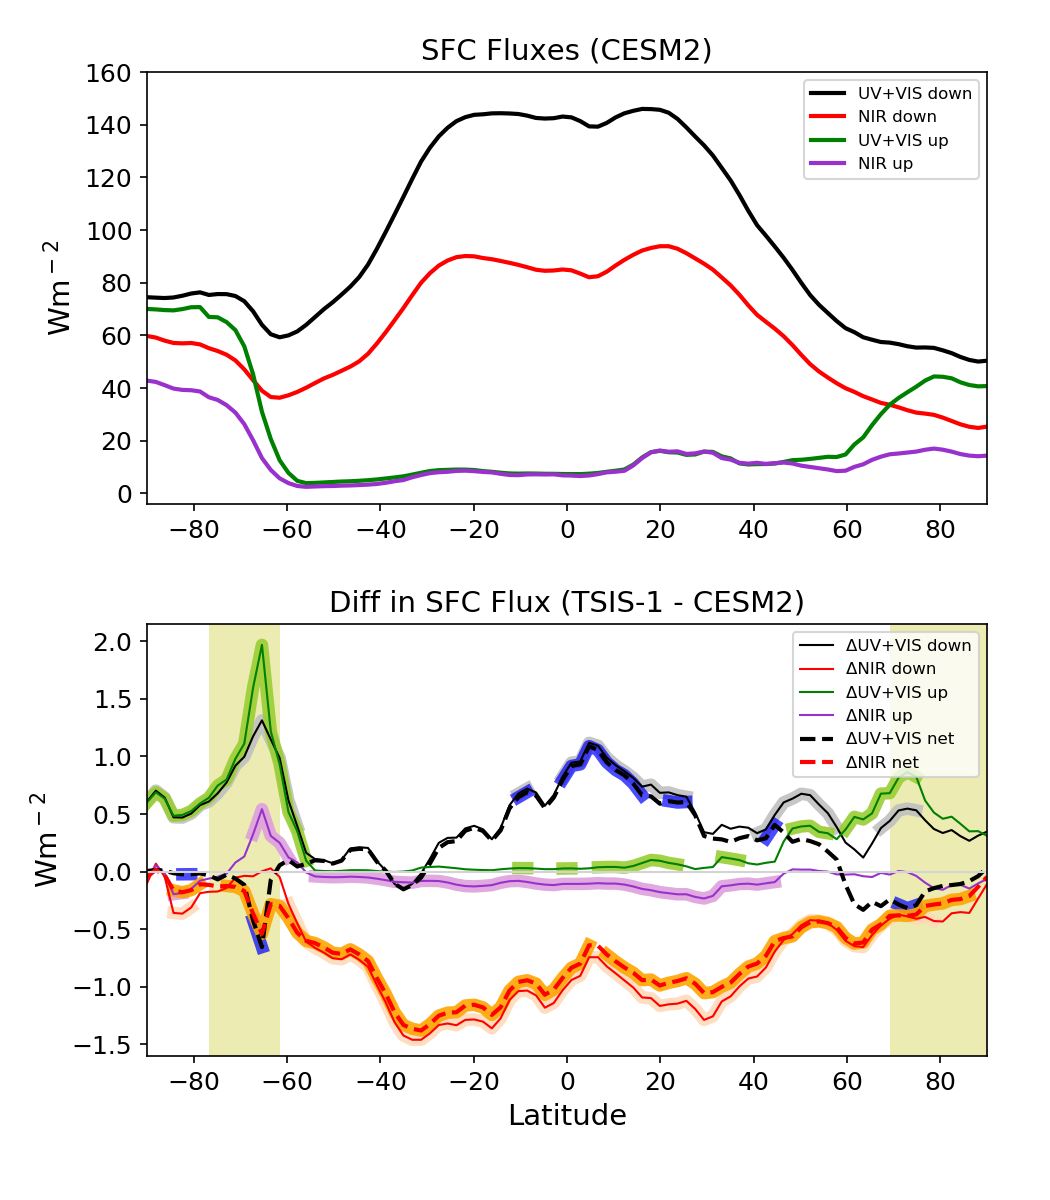
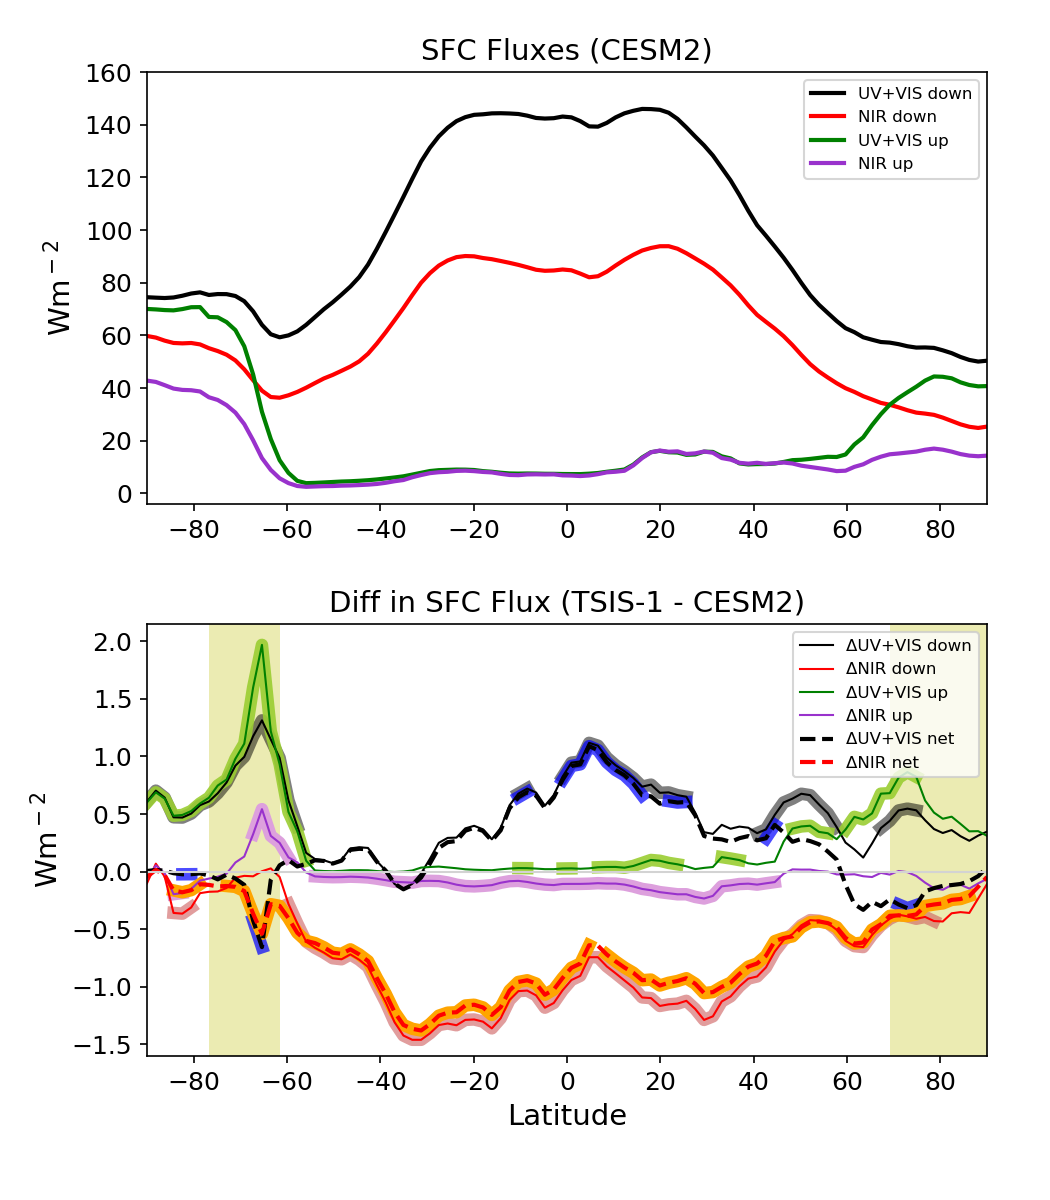
modify zonal mean plots

diff --git a/d4_zonal_mean_net_sfc.py b/d4_zonal_mean_net_sfc.py
@@ -34,15 +34,20 @@ ctl_name="CTL" #os.environ["ctl_name"]
 exp_name="TSIS" #os.environ["exp_name"]
 ctl_pref="solar_CTL_cesm211_ETEST-f19_g17-ens_mean_2010-2019"
 exp_pref="solar_TSIS_cesm211_ETEST-f19_g17-ens_mean_2010-2019"
+ctl_pref_diag="solar_CTL_cesm211_ETEST-f19_g17-ens0_5days"
+exp_pref_diag="solar_TSIS_cesm211_ETEST-f19_g17-ens0_5days"
 
 fpath_ctl="/raid00/xianwen/cesm211_solar/"+ctl_pref+"/climo/"
 fpath_exp="/raid00/xianwen/cesm211_solar/"+exp_pref+"/climo/"
  
+fpath_ctl_diag="/raid00/xianwen/cesm211_solar/"+ctl_pref_diag+"/"
+fpath_exp_diag="/raid00/xianwen/cesm211_solar/"+exp_pref_diag+"/"
+
 years=np.arange(2010,2020) 
 months_all=["01","02","03","04","05","06","07","08","09","10","11","12"]
 
 #var_long_name="Surface Net SW Radiation (all-sky)"
-figure_name="zonal_sfc_net_uv+vis_nir_ANN_shaded"
+figure_name="zonal_sfc_net_ANN_shaded"
 units=r"Wm$^-$$^2$"
 
 varnms_vis_dn=np.array(["FSSDS13","FSSDS12","FSSDS11","FSSDS10","FSSDS09"])
@@ -80,6 +85,30 @@ diffs_net=np.zeros((2,nlat)) #multi-year exp-ctl diff for each variable
 gm_yby_ctl_net=np.zeros((2,years.size)) #year by year mean for each variable
 gm_yby_exp_net=np.zeros((2,years.size)) #year by year mean for each variable
 
+means_yby_ctl_dn_diag=np.zeros((years.size,2,nlat)) #year by year mean for each variable
+means_yby_exp_dn_diag=np.zeros((years.size,2,nlat)) #year by year mean for each variable
+means_ctl_dn_diag=np.zeros((2,nlat)) #multi-year mean for each variable
+means_exp_dn_diag=np.zeros((2,nlat)) #multi-year mean for each variable
+diffs_dn_dn_diag=np.zeros((2,nlat)) #multi-year exp-ctl diff for each variable
+gm_yby_ctl_dn_diag=np.zeros((2,years.size)) #year by year mean for each variable
+gm_yby_exp_dn_diag=np.zeros((2,years.size)) #year by year mean for each variable
+
+means_yby_ctl_up_diag=np.zeros((years.size,2,nlat)) #year by year mean for each variable
+means_yby_exp_up_diag=np.zeros((years.size,2,nlat)) #year by year mean for each variable
+means_ctl_up_diag=np.zeros((2,nlat)) #multi-year mean for each variable
+means_exp_up_diag=np.zeros((2,nlat)) #multi-year mean for each variable
+diffs_up_diag=np.zeros((2,nlat)) #multi-year exp-ctl diff for each variable
+gm_yby_ctl_up_diag=np.zeros((2,years.size)) #year by year mean for each variable
+gm_yby_exp_up_diag=np.zeros((2,years.size)) #year by year mean for each variable
+
+means_yby_ctl_net_diag=np.zeros((years.size,2,nlat)) #year by year mean for each variable
+means_yby_exp_net_diag=np.zeros((years.size,2,nlat)) #year by year mean for each variable
+means_ctl_net_diag=np.zeros((2,nlat)) #multi-year mean for each variable
+means_exp_net_diag=np.zeros((2,nlat)) #multi-year mean for each variable
+diffs_net_diag=np.zeros((2,nlat)) #multi-year exp-ctl diff for each variable
+gm_yby_ctl_net_diag=np.zeros((2,years.size)) #year by year mean for each variable
+gm_yby_exp_net_diag=np.zeros((2,years.size)) #year by year mean for each variable
+
 means_yby_exp_fice=np.zeros((years.size,nlat)) #year by year mean for each variable
 means_exp_fice=np.zeros((nlat)) #multi-year mean for each variable
 
@@ -89,7 +118,12 @@ for iy in range(0,years.size):
     fexp=fpath_exp+exp_pref+"_ANN_"+str(years[iy])+".nc"
     file_ctl=netcdf_dataset(fctl,"r")
     file_exp=netcdf_dataset(fexp,"r")
-    
+
+    fctl_diag=fpath_ctl_diag+ctl_pref_diag+"_climo_ANN.nc"
+    fexp_diag=fpath_exp_diag+exp_pref_diag+"_climo_ANN.nc"
+    file_ctl_diag=netcdf_dataset(fctl_diag,"r")
+    file_exp_diag=netcdf_dataset(fexp_diag,"r")
+
     # read lat and lon
     lat=file_ctl.variables["lat"]
     lon=file_ctl.variables["lon"]
@@ -105,6 +139,13 @@ for iy in range(0,years.size):
         gm_yby_ctl_dn[0,iy]=gm_yby_ctl_dn[0,iy]+get_area_mean_min_max(dtctl_dn[:,:],lat[:])[0]
         gm_yby_exp_dn[0,iy]=gm_yby_exp_dn[0,iy]+get_area_mean_min_max(dtexp_dn[:,:],lat[:])[0]
 
+        dtctl_dn_diag=file_ctl_diag.variables[vn][0,:,:]
+        dtexp_dn_diag=file_exp_diag.variables[vn][0,:,:] 
+        means_yby_ctl_dn_diag[iy,0,:]= means_yby_ctl_dn_diag[iy,0,:] + np.mean(dtctl_dn_diag[:,:],axis=1)
+        means_yby_exp_dn_diag[iy,0,:]= means_yby_exp_dn_diag[iy,0,:] + np.mean(dtexp_dn_diag[:,:],axis=1)
+        gm_yby_ctl_dn_diag[0,iy]=gm_yby_ctl_dn_diag[0,iy]+get_area_mean_min_max(dtctl_dn_diag[:,:],lat[:])[0]
+        gm_yby_exp_dn_diag[0,iy]=gm_yby_exp_dn_diag[0,iy]+get_area_mean_min_max(dtexp_dn_diag[:,:],lat[:])[0]
+
     for vn in varnms_nir_dn:
         dtctl_dn=file_ctl.variables[vn][0,:,:]
         dtexp_dn=file_exp.variables[vn][0,:,:] 
@@ -113,6 +154,13 @@ for iy in range(0,years.size):
         gm_yby_ctl_dn[1,iy]=gm_yby_ctl_dn[1,iy]+get_area_mean_min_max(dtctl_dn[:,:],lat[:])[0]
         gm_yby_exp_dn[1,iy]=gm_yby_exp_dn[1,iy]+get_area_mean_min_max(dtexp_dn[:,:],lat[:])[0]
  
+        dtctl_dn_diag=file_ctl_diag.variables[vn][0,:,:]
+        dtexp_dn_diag=file_exp_diag.variables[vn][0,:,:] 
+        means_yby_ctl_dn_diag[iy,1,:]= means_yby_ctl_dn_diag[iy,1,:] + np.mean(dtctl_dn_diag[:,:],axis=1)
+        means_yby_exp_dn_diag[iy,1,:]= means_yby_exp_dn_diag[iy,1,:] + np.mean(dtexp_dn_diag[:,:],axis=1)
+        gm_yby_ctl_dn_diag[1,iy]=gm_yby_ctl_dn_diag[1,iy]+get_area_mean_min_max(dtctl_dn_diag[:,:],lat[:])[0]
+        gm_yby_exp_dn_diag[1,iy]=gm_yby_exp_dn_diag[1,iy]+get_area_mean_min_max(dtexp_dn_diag[:,:],lat[:])[0]
+
     for vn in varnms_vis_up:
         dtctl_up=file_ctl.variables[vn][0,:,:]
         dtexp_up=file_exp.variables[vn][0,:,:] 
@@ -121,6 +169,13 @@ for iy in range(0,years.size):
         gm_yby_ctl_up[0,iy]=gm_yby_ctl_up[0,iy]+get_area_mean_min_max(dtctl_up[:,:],lat[:])[0]
         gm_yby_exp_up[0,iy]=gm_yby_exp_up[0,iy]+get_area_mean_min_max(dtexp_up[:,:],lat[:])[0]
 
+        dtctl_up_diag=file_ctl_diag.variables[vn][0,:,:]
+        dtexp_up_diag=file_exp_diag.variables[vn][0,:,:] 
+        means_yby_ctl_up_diag[iy,0,:]= means_yby_ctl_up_diag[iy,0,:] + np.mean(dtctl_up_diag[:,:],axis=1)
+        means_yby_exp_up_diag[iy,0,:]= means_yby_exp_up_diag[iy,0,:] + np.mean(dtexp_up_diag[:,:],axis=1)
+        gm_yby_ctl_up_diag[0,iy]=gm_yby_ctl_up_diag[0,iy]+get_area_mean_min_max(dtctl_up_diag[:,:],lat[:])[0]
+        gm_yby_exp_up_diag[0,iy]=gm_yby_exp_up_diag[0,iy]+get_area_mean_min_max(dtexp_up_diag[:,:],lat[:])[0]
+
     for vn in varnms_nir_up:
         dtctl_up=file_ctl.variables[vn][0,:,:]
         dtexp_up=file_exp.variables[vn][0,:,:] 
@@ -128,10 +183,23 @@ for iy in range(0,years.size):
         means_yby_exp_up[iy,1,:]= means_yby_exp_up[iy,1,:] + np.mean(dtexp_up[:,:],axis=1) #[0,:]
         gm_yby_ctl_up[1,iy]=gm_yby_ctl_up[1,iy]+get_area_mean_min_max(dtctl_up[:,:],lat[:])[0]
         gm_yby_exp_up[1,iy]=gm_yby_exp_up[1,iy]+get_area_mean_min_max(dtexp_up[:,:],lat[:])[0]
+
+        dtctl_up_diag=file_ctl_diag.variables[vn][0,:,:]
+        dtexp_up_diag=file_exp_diag.variables[vn][0,:,:] 
+        means_yby_ctl_up_diag[iy,1,:]= means_yby_ctl_up_diag[iy,1,:] + np.mean(dtctl_up_diag[:,:],axis=1)
+        means_yby_exp_up_diag[iy,1,:]= means_yby_exp_up_diag[iy,1,:] + np.mean(dtexp_up_diag[:,:],axis=1)
+        gm_yby_ctl_up_diag[1,iy]=gm_yby_ctl_up_diag[1,iy]+get_area_mean_min_max(dtctl_up_diag[:,:],lat[:])[0]
+        gm_yby_exp_up_diag[1,iy]=gm_yby_exp_up_diag[1,iy]+get_area_mean_min_max(dtexp_up_diag[:,:],lat[:])[0]
+
     means_yby_ctl_net[iy,:,:]=means_yby_ctl_dn[iy,:,:]-means_yby_ctl_up[iy,:,:]
     means_yby_exp_net[iy,:,:]=means_yby_exp_dn[iy,:,:]-means_yby_exp_up[iy,:,:]
     gm_yby_ctl_net[:,iy]=gm_yby_ctl_dn[:,iy]-gm_yby_ctl_up[:,iy]
     gm_yby_exp_net[:,iy]=gm_yby_exp_dn[:,iy]-gm_yby_exp_up[:,iy]
+
+    means_yby_ctl_net_diag[iy,:,:]=means_yby_ctl_dn_diag[iy,:,:]-means_yby_ctl_up_diag[iy,:,:]
+    means_yby_exp_net_diag[iy,:,:]=means_yby_exp_dn_diag[iy,:,:]-means_yby_exp_up_diag[iy,:,:]
+    gm_yby_ctl_net_diag[:,iy]=gm_yby_ctl_dn_diag[:,iy]-gm_yby_ctl_up_diag[:,iy]
+    gm_yby_exp_net_diag[:,iy]=gm_yby_exp_dn_diag[:,iy]-gm_yby_exp_up_diag[:,iy]
 
 #print(np.mean(gm_yby_ctl_dn,axis=1))
 #print(np.mean(gm_yby_ctl_up,axis=1))
@@ -175,6 +243,14 @@ pvalues_net=ttest.pvalue
 diffs_sig_net=np.zeros(diffs_net.shape)
 diffs_sig_net[:,:]=np.nan
 
+means_ctl_net_diag=np.mean(means_yby_ctl_net_diag,axis=0)
+means_exp_net_diag=np.mean(means_yby_exp_net_diag,axis=0)
+diffs_net_diag=means_exp_net_diag-means_ctl_net_diag
+ttest=stats.ttest_ind(means_yby_ctl_net_diag,means_yby_exp_net_diag,axis=0)
+pvalues_net_diag=ttest.pvalue
+diffs_sig_net_diag=np.zeros(diffs_net_diag.shape)
+diffs_sig_net_diag[:,:]=np.nan
+
 means_exp_fice=np.mean(means_yby_exp_fice,axis=0)
 
 zeros=np.zeros(diffs_dn.shape)
@@ -202,54 +278,62 @@ for iv in range(pvalues_net.shape[0]):
        #else:
        #    diffs_unsig[iv,ip]=diffs[iv,ip]
 
+for iv in range(pvalues_net_diag.shape[0]):
+   for ip in range(pvalues_net_diag.shape[1]):
+       if pvalues_net_diag[iv,ip] < siglev:
+           diffs_sig_net_diag[iv,ip]=diffs_net_diag[iv,ip]
+       #else:
+       #    diffs_unsig[iv,ip]=diffs[iv,ip]
+
 
 # make the plot
 fig=plt.figure(figsize=(7,8))
-ax1=fig.add_axes([0.14,0.58,0.8,0.36])
-
-ax1.plot(lat[:],means_ctl_dn[0,:],color="k",lw=2,ls="-",label="UV+VIS down")
-ax1.plot(lat[:],means_ctl_dn[1,:],color="r",lw=2,ls="-",label="NIR down")
-ax1.plot(lat[:],means_ctl_up[0,:],color="g",lw=2,ls="-",label="UV+VIS up")
-ax1.plot(lat[:],means_ctl_up[1,:],color="darkorchid",lw=2,ls="-",label="NIR up")
-#ax1.plot(lat[:],means_ctl_DJF[0,:],color="royalblue",lw=2,ls="-",label="DJF")
-#ax1.plot(lat[:],means_ctl_JJA[0,:],color="darkorange",lw=2,ls="-",label="JJA")
-#ax1.plot(lat[:],means_exp[0,:],color="k",lw=2,ls=":",label="TSIS")
-#ax1.legend(loc="upper left",fontsize=12)
-ax1.legend(fontsize=8)
-ax1.set_title("SFC Fluxes (CESM2)",fontsize=14)
-ax1.set_ylabel(units,fontsize=14)
-#ax1.set_xlabel("Latitude",fontsize=14)
-ax1.set_xlim(-90,90)
-ax1.set_ylim(-4,160)
-plt.xticks(fontsize=12)
-plt.yticks(fontsize=12)
+#ax1=fig.add_axes([0.14,0.58,0.8,0.36])
+#
+#ax1.plot(lat[:],means_ctl_dn[0,:],color="k",lw=2,ls="-",label="UV+VIS down")
+#ax1.plot(lat[:],means_ctl_dn[1,:],color="r",lw=2,ls="-",label="NIR down")
+#ax1.plot(lat[:],means_ctl_up[0,:],color="g",lw=2,ls="-",label="UV+VIS up")
+#ax1.plot(lat[:],means_ctl_up[1,:],color="darkorchid",lw=2,ls="-",label="NIR up")
+##ax1.plot(lat[:],means_ctl_DJF[0,:],color="royalblue",lw=2,ls="-",label="DJF")
+##ax1.plot(lat[:],means_ctl_JJA[0,:],color="darkorange",lw=2,ls="-",label="JJA")
+##ax1.plot(lat[:],means_exp[0,:],color="k",lw=2,ls=":",label="TSIS")
+##ax1.legend(loc="upper left",fontsize=12)
+#ax1.legend(fontsize=8)
+#ax1.set_title("SFC Fluxes (CESM2)",fontsize=14)
+#ax1.set_ylabel(units,fontsize=14)
+##ax1.set_xlabel("Latitude",fontsize=14)
+#ax1.set_xlim(-90,90)
+#ax1.set_ylim(-4,160)
+#plt.xticks(fontsize=12)
+#plt.yticks(fontsize=12)
 
 ax2=fig.add_axes([0.14,0.12,0.8,0.36])
-ax2.plot(lat[:],diffs_sig_dn[0,:],color="k",lw=6,alpha=0.5)
+#ax2.plot(lat[:],diffs_sig_dn[0,:],color="silver",lw=6,alpha=0.9)
 #ax2.plot(lat[:],diffs_sig_dn[1,:],color="peachpuff",lw=6,alpha=0.9)
-ax2.plot(lat[:],diffs_sig_dn[1,:],color="indianred",lw=6,alpha=0.6)
-ax2.plot(lat[:],diffs_sig_up[0,:],color="yellowgreen",lw=6,alpha=0.9)
-ax2.plot(lat[:],diffs_sig_up[1,:],color="plum",lw=6,alpha=1.0)
-ax2.plot(lat[:],diffs_sig_net[0,:],color="blue",lw=6,alpha=0.7)
-ax2.plot(lat[:],diffs_sig_net[1,:],color="orange",lw=6,alpha=1.0)
+#ax2.plot(lat[:],diffs_sig_up[0,:],color="yellowgreen",lw=6,alpha=0.9)
+#ax2.plot(lat[:],diffs_sig_up[1,:],color="plum",lw=6,alpha=0.9)
+#ax2.plot(lat[:],diffs_sig_net[0,:],color="blue",lw=6,alpha=0.7)
+ax2.plot(lat[:],diffs_sig_net[:,:].sum(axis=0),color="r",lw=6,alpha=0.6)
+#ax2.plot(lat[:],diffs_sig_net_diag[:,:].sum(axis=0),color="k",lw=4,alpha=0.5)
 
-ax2.plot(lat[:],diffs_dn[0,:],color="k",lw=1,label="\u0394UV+VIS down")
-ax2.plot(lat[:],diffs_dn[1,:],color="r",lw=1,label="\u0394NIR down")
-ax2.plot(lat[:],diffs_up[0,:],color="g",lw=1,ls="-",label="\u0394UV+VIS up")
-ax2.plot(lat[:],diffs_up[1,:],color="darkorchid",lw=1,ls="-",label="\u0394NIR up")
-ax2.plot(lat[:],diffs_net[0,:],color="k",lw=2,ls="--",label="\u0394UV+VIS net")
-ax2.plot(lat[:],diffs_net[1,:],color="r",lw=2,ls="--",label="\u0394NIR net")
+#ax2.plot(lat[:],diffs_dn[0,:],color="k",lw=1,label="\u0394UV+VIS down")
+#ax2.plot(lat[:],diffs_dn[1,:],color="r",lw=1,label="\u0394NIR down")
+#ax2.plot(lat[:],diffs_up[0,:],color="g",lw=1,ls="-",label="\u0394UV+VIS up")
+#ax2.plot(lat[:],diffs_up[1,:],color="darkorchid",lw=1,ls="-",label="\u0394NIR up")
+#ax2.plot(lat[:],diffs_net[0,:],color="k",lw=2,ls="--",label="\u0394UV+VIS net")
+ax2.plot(lat[:],diffs_net[:,:].sum(axis=0),color="r",lw=2,ls="-",label="\u0394SW net")
+ax2.plot(lat[:],diffs_net_diag[:,:].sum(axis=0),color="k",lw=2,ls="-",label="\u0394SW net (diag)")
 #ax2.plot(lat[:],diffs_DJF[0,:],color="royalblue",lw=1)
 #ax2.plot(lat[:],diffs_JJA[0,:],color="darkorange",lw=1)
 #ax2.plot(lat[:],diffs_sig_DJF[0,:],color="royalblue",lw=4,alpha=1.)
 #ax2.plot(lat[:],diffs_sig_JJA[0,:],color="darkorange",lw=4,alpha=1.)
 ax2.plot(lat[:],zeros[0,:],color="lightgray",lw=1)
-ax2.legend(fontsize=8)
-ax2.set_title("Diff in SFC Flux (TSIS-1 - CESM2)",fontsize=14) #+var_long_name,fontsize=12)
+ax2.legend(fontsize=12)
+ax2.set_title("Diff in SFC net Flux (TSIS-1 - CESM2)",fontsize=14) #+var_long_name,fontsize=12)
 ax2.set_ylabel(units,fontsize=14)
 ax2.set_xlabel("Latitude",fontsize=14)
 ax2.set_xlim(-90,90)
-ax2.set_ylim(-1.6,2.15)
+ax2.set_ylim(-1.6,1.0)
 plt.xticks(fontsize=12)
 plt.yticks(fontsize=12)
 

diff --git a/d4_zonal_mean_VIS_NIR_net_5day-diag.py b/d4_zonal_mean_VIS_NIR_net_5day-diag.py
@@ -142,12 +142,12 @@ means_yby_exp_net[:,:]=means_yby_exp_dn[:,:]-means_yby_exp_up[:,:]
 gm_yby_ctl_net[:]=gm_yby_ctl_dn[:]-gm_yby_ctl_up[:]
 gm_yby_exp_net[:]=gm_yby_exp_dn[:]-gm_yby_exp_up[:]
 
-print(gm_yby_ctl_dn)
-print(gm_yby_ctl_up)
-print(gm_yby_ctl_net)
-print(gm_yby_exp_dn)
-print(gm_yby_exp_up)
-print(gm_yby_exp_net)
+#print(gm_yby_ctl_dn)
+#print(gm_yby_ctl_up)
+#print(gm_yby_ctl_net)
+#print(gm_yby_exp_dn)
+#print(gm_yby_exp_up)
+#print(gm_yby_exp_net)
 #exit()
 
 # compute globam mean
@@ -190,9 +190,9 @@ weights=np.cos(latr)
 avg_Antarctic=np.average(diffs_net_bb_mask[0:40],axis=0,weights=weights[0:40]) 
 avg_Arctic=np.average(diffs_net_bb_mask[60:],axis=0,weights=weights[60:]) 
 
-print(avg_Antarctic)
-print(avg_Arctic)
-exit()
+#print(avg_Antarctic)
+#print(avg_Arctic)
+#exit()
 
 ###ttest=stats.ttest_ind(means_yby_ctl_net,means_yby_exp_net,axis=0)
 ###pvalues_net=ttest.pvalue
@@ -267,7 +267,7 @@ ax2.plot(lat[:],diffs_net[1,:],color="r",lw=2,ls="--",label="\u0394NIR net")
 #ax2.plot(lat[:],diffs_sig_JJA[0,:],color="darkorange",lw=4,alpha=1.)
 ax2.plot(lat[:],zeros[0,:],color="gray",lw=1)
 ax2.legend(fontsize=8)
-ax2.set_title("Diff in SFC Flux (TSIS-1 - CESM2)",fontsize=14) #+var_long_name,fontsize=12)
+ax2.set_title("Diff in SFC Flux (TSIS-1 - CESM2, diag)",fontsize=14) #+var_long_name,fontsize=12)
 ax2.set_ylabel(units,fontsize=14)
 ax2.set_xlabel("Latitude",fontsize=14)
 ax2.set_xlim(-90,90)
